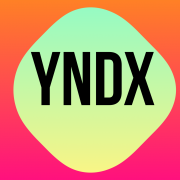
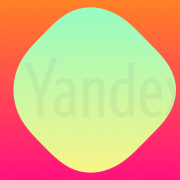
iosify

Changed region(s): [[0.1667, 0.2778, 0.8611, 0.6111]]

diff --git a/index.html b/index.html
@@ -8,20 +8,12 @@
     <meta name="apple-mobile-web-app-status-bar-style" content="black-translucent">
     <link rel="shortcut icon" href="favicon.ico" type="image/x-icon" />
     <link rel="apple-touch-icon" href="i/apple-touch-icon.png" />
-    <link rel="apple-touch-icon" sizes="57x57" href="i/apple-touch-icon-57x57.png" />
-    <link rel="apple-touch-icon" sizes="72x72" href="i/apple-touch-icon-72x72.png" />
-    <link rel="apple-touch-icon" sizes="76x76" href="i/apple-touch-icon-76x76.png" />
-    <link rel="apple-touch-icon" sizes="114x114" href="i/apple-touch-icon-114x114.png" />
-    <link rel="apple-touch-icon" sizes="120x120" href="i/apple-touch-icon-120x120.png" />
-    <link rel="apple-touch-icon" sizes="144x144" href="i/apple-touch-icon-144x144.png" />
-    <link rel="apple-touch-icon" sizes="152x152" href="i/apple-touch-icon-152x152.png" />
     <link rel="apple-touch-icon" sizes="180x180" href="i/apple-touch-icon-180x180.png" />
-    <link rel="apple-touch-icon" sizes="512x512" href="i/apple-touch-icon-512x512.png" />
     <style>
         body {
             font-family: -apple-system, BlinkMacSystemFont, sans-serif;
-            background-color: #111111;
-            background-image: url(https://source.unsplash.com/random/414x896);
+            background-color: #f5f5f5;
+            background-image: url(https://source.unsplash.com/414x896/daily);
             background-size: cover;
             margin: 10px;
             color: #000;
@@ -30,18 +22,16 @@
             position: fixed;
             width: calc(100% - 20px);
             height: calc(100% - 20px);
-            border-radius: 32px;
-            text-align: center;
             display: flex;
             flex-direction: column;
-            justify-content: center;
-            background-color: rgba(255,255,255,.4);
-            backdrop-filter: blur(4px);
-            -webkit-backdrop-filter: blur(4px);
+            padding: 30px 0 0 20px;
         }
         .headline {
-            font-size: 20vw;
-            font-weight: 700;
+            font-size: 26vw;
+            font-weight: 100;
+        }
+        .ticker {
+            padding: 0 0 0 4px;
         }
         .spacing {
             letter-spacing: 4px;
@@ -73,14 +63,15 @@ fetch('https://www.alphavantage.co/query?function=TIME_SERIES_INTRADAY&symbol=YN
     )
     .then(final => {
             console.log('Стоимость акций Яндекса:', Math.round(usd*yandex) + '₽')
-            document.querySelector('.headline').innerHTML = Math.round(usd*yandex) + '<span style="font-weight: 400">₽</span>'
+            document.querySelector('.headline').innerHTML = Math.round(usd*yandex) + '<span style="font-weight: 100">₽</span>'
         }
     )
 </script>
 
 <div class="card">
+    <progress max="100" value="80"></progress>
     <div class="ticker">YNDX</div>
-    <div class="headline">–</div>
+    <div class="headline"><img src="i/loader.svg" style="position: absolute;top: 90px;left: 22px;"></div>
 </div>
 
 </body>
